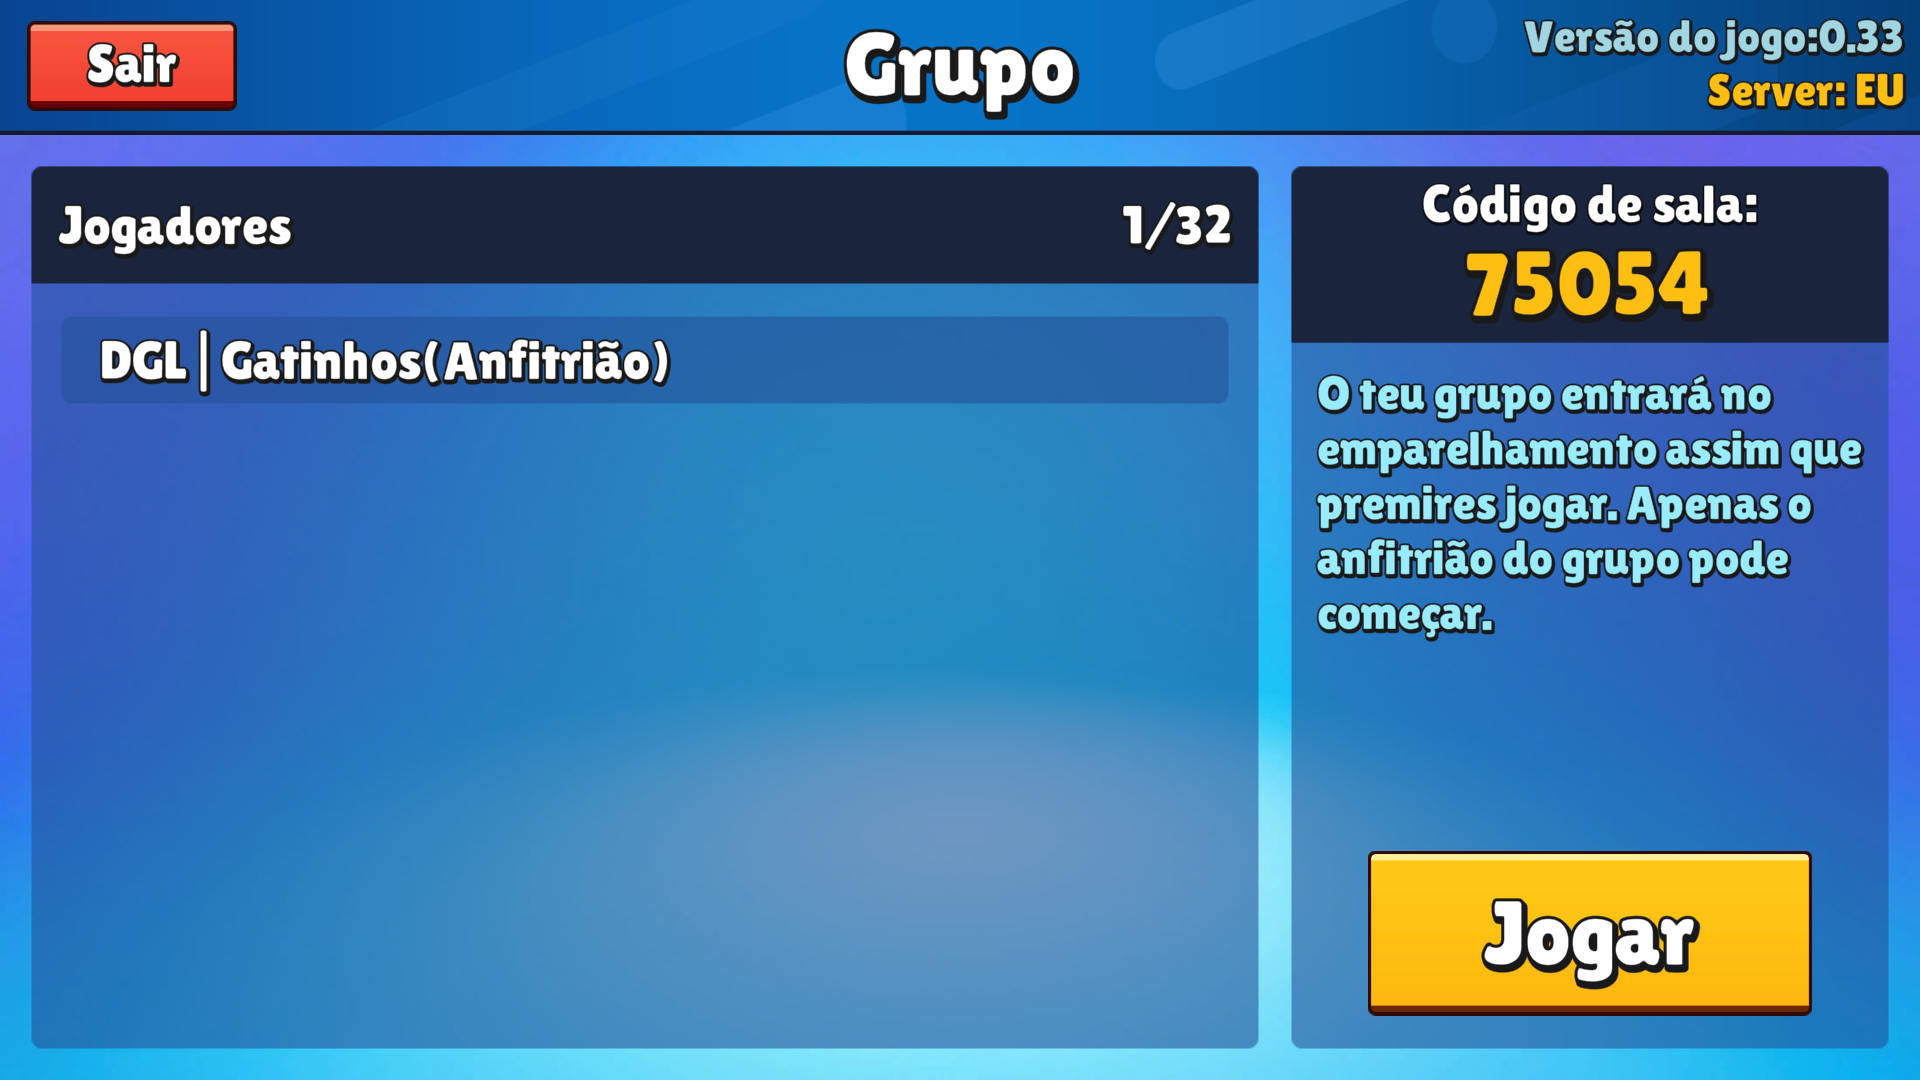
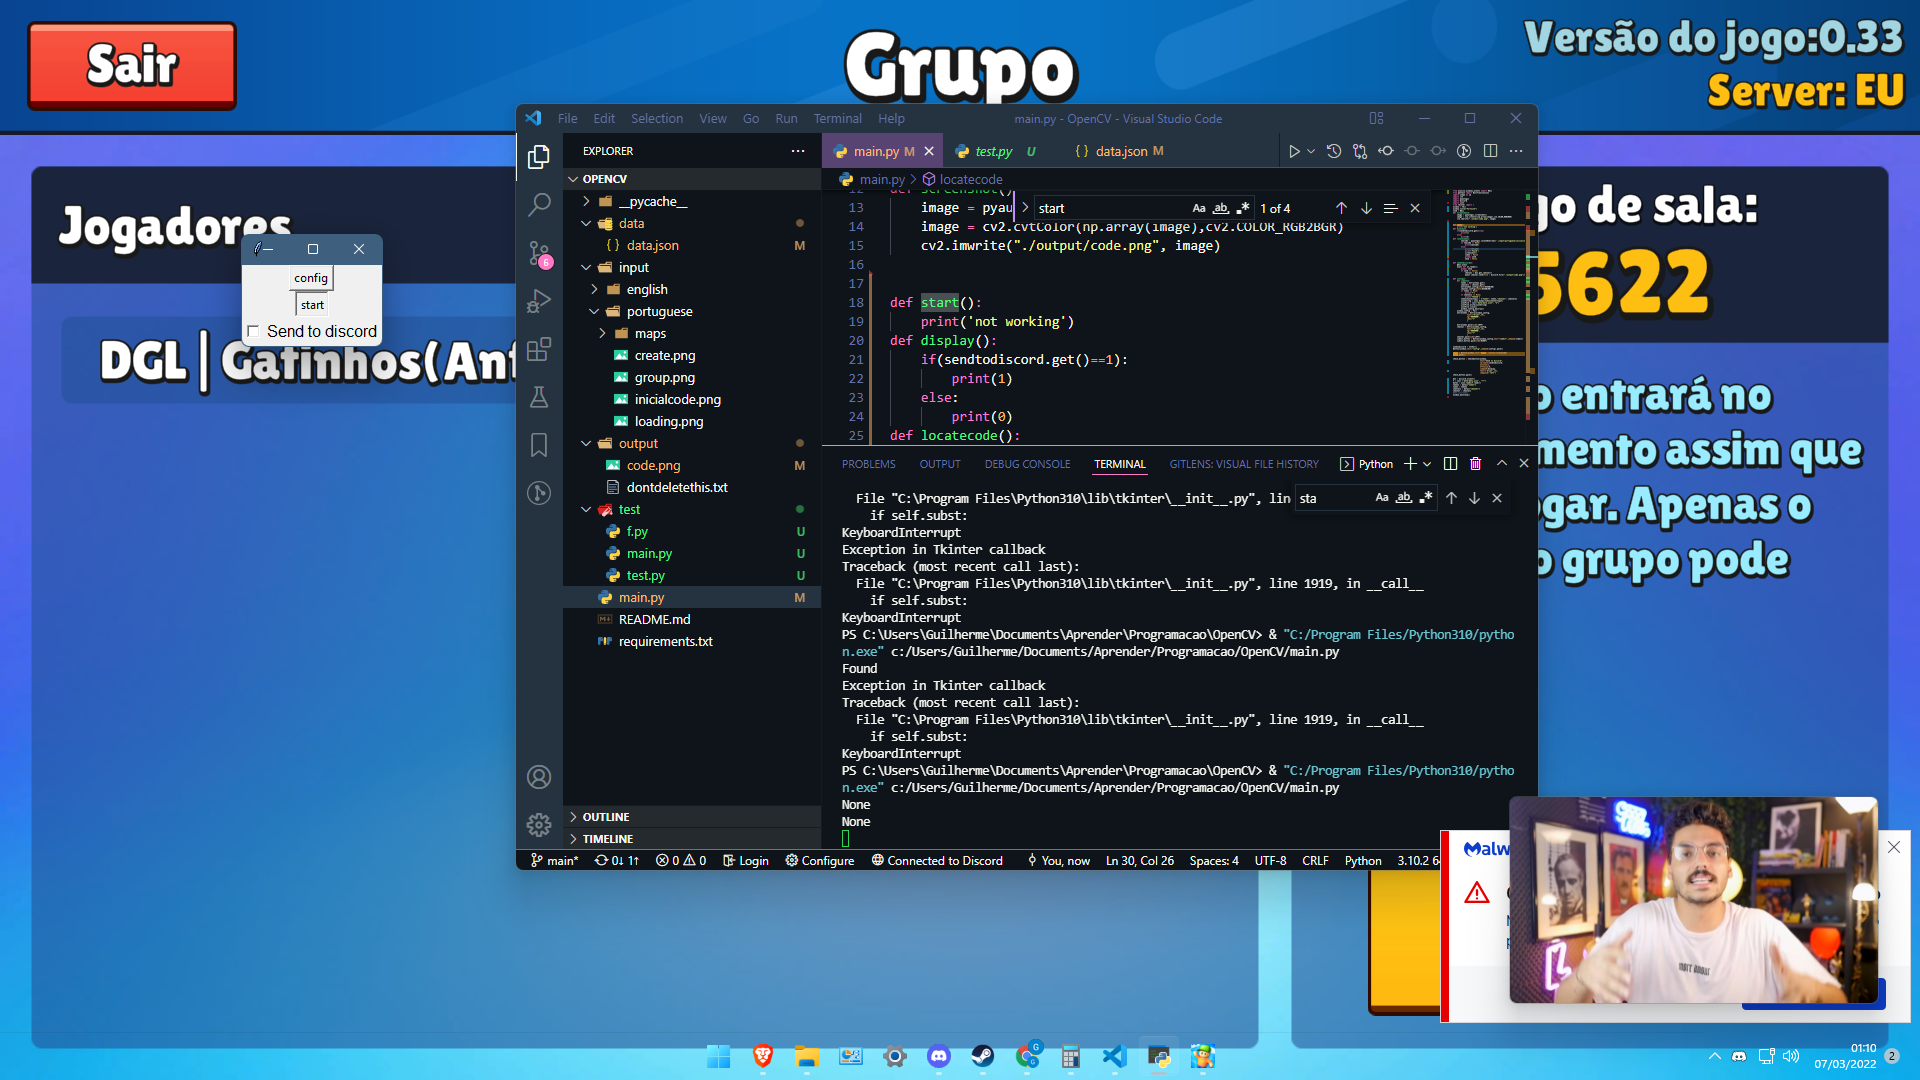
Added stuff

diff --git a/main.py b/main.py
@@ -1,121 +1,103 @@
+from asyncio.windows_events import NULL
+from gettext import NullTranslations
 import numpy as np
 import cv2
 import pyautogui
 import discord
 import json
-f = open ('data/data.json', "r+")
-token2 = json.loads(f.read())
-token1 = token2["token"]
-
 from tkinter import *
-bot = discord.Client()
-code = False
-
-
+window = Tk()
+window.title("Fortnite")
+send = NULL
 def screenshot():
     image = pyautogui.screenshot()
     image = cv2.cvtColor(np.array(image),cv2.COLOR_RGB2BGR)
     cv2.imwrite("./output/code.png", image)
 
-while code == True:
-    group = pyautogui.locateOnScreen('./input/portuguese/group.png', confidence=.6)
-    if group == None:
-        print('Not found')
-    else: 
-        pyautogui.moveTo(group, duration=.1)
-        pyautogui.click(interval=.3)
-        print('Found')
-        code = False
-        code1 = True
-    
 
-while code1 == True:
-    create = pyautogui.locateOnScreen('./input/portuguese/create.png', confidence=.6)
-    if create == None:
-        print('Not Found')
-    else: 
-        pyautogui.moveTo(create, duration=.1)
-        pyautogui.click(interval=.3)
-        print('Found')
-        code1 = False
-        code2 = True
-
-while code2 == True:
-    seecode = pyautogui.locateOnScreen('./input/portuguese/inicialcode.png', confidence=.7)
-    if seecode is None:
-        print('Dont Found')
-    else:
-        print('Found')
-        screenshot()
-        code2 = False
-        send = False
-        loading = True
-
-while loading == True:
-    loading2 = pyautogui.locateOnScreen('./input/portuguese/loading.png', confidence=.7)
-    if seecode is None:
-        print('Dont Found')
-    else:
-        print('Found match')
-        loading2 = False
-        icy = True
-        
-@bot.event
-async def on_ready():
-    if send == False:
-        channel = bot.get_channel(channeltosend)
-        await channel.send(file = discord.File("./output/code.png"))
-        
-
-
-
-
-
-window = Tk()
-window.title("Fortnite")
-mapa = None
-
-
+def start():
+    print('not working')
 def display():
-    if(x1.get()==1):
+    if(sendtodiscord.get()==1):
         print(1)
     else:
         print(0)
-
-def submit():
-    token = entrytoken.get()
-    entrytoken.config(state=DISABLED)
-    tokentoput = {"token": token}
-    jsonString = json.dumps(tokentoput)
-    jsonFile = open("data/data.json", "w")
-    jsonFile.write(jsonString)
-    jsonFile.close()
-x1 = IntVar()
-
-check_button = Checkbutton(window,
-                           text="I agree to something",
-                           variable=x1,
-                           onvalue=1,
-                           offvalue=0,
-                           command=display,
-                           font=('Arial',20),
-                           compound='left')
-check_button.pack()
-
-
-
-entrytoken = Entry(window,
-              font=("Arial",50),
-              fg="#00FF00",
-              bg="black",
+def locatecode():
+        seecode = pyautogui.locateOnScreen('./input/portuguese/inicialcode.png', confidence=.7)
+        if seecode == None:
+            print(seecode)
+        else:
+            print(seecode)
+            print('Found')
+            screenshot()
+            code2 = False
+            global send
+            send = False
+        
+def sendtodiscord():
+    @bot.event
+    async def on_ready():
+        global send
+        if send == False:
+            channel = bot.get_channel()
+            await channel.send(file = discord.File("./output/code.png"))
+        
+def config():
+    def submit():
+        token = entrytoken.get()
+        channel1 = channel.get()
+        entrytoken.config(state=DISABLED)
+        channel.config(state=DISABLED)
+        if token is None:
+            print('f')
+        if channel1 is None:
+            print('f32424')
+        tokenchanneltoput = {"token": token,"channel": channel1}
+        jsonString = json.dumps(tokenchanneltoput)
+        jsonFile = open("data/data.json", "w")
+        jsonFile.write(jsonString)
+        jsonFile.close()
+        window_config.destroy()
+    window_config = Tk()
+    entrytoken = Entry(window_config,
+              font=("Arial",15),
+              fg="#000000",
               show="*"
               )
 
-entrytoken.pack(side=LEFT)
+    entrytoken.pack(side=LEFT)
+    channel = Entry(window_config,
+              font=("Arial",15),
+              fg="#000000",
+              show="*"
+              )
+    channel.pack(side=LEFT)
+    submit_button = Button(window_config,text="submit",command=submit)
+    submit_button.pack(side=RIGHT)
 
-submit_button = Button(window,text="submit",command=submit)
-submit_button.pack(side=RIGHT)
 
+sendtodiscord = IntVar()
+Button(window,text="config",command=config).pack()
+
+start = Button(window,text="start",command=locatecode)
+start.pack()
+
+check_button = Checkbutton(window,
+                           text="Send to discord",
+                           variable=sendtodiscord,
+                           onvalue=1,
+                           offvalue=0,
+                           command=display,
+                           font=('Arial',12),
+                           compound='left')
+check_button.pack()
+
+bot = discord.Client()
+f = open ('data/data.json', "r+")
+datas = json.loads(f.read())
+token1 = datas["token"]
+token = token1
+channel1 = datas["channel"]
+channel = channel1
+#bot.run(token)
 window.mainloop()
-
-bot.run(token1)
